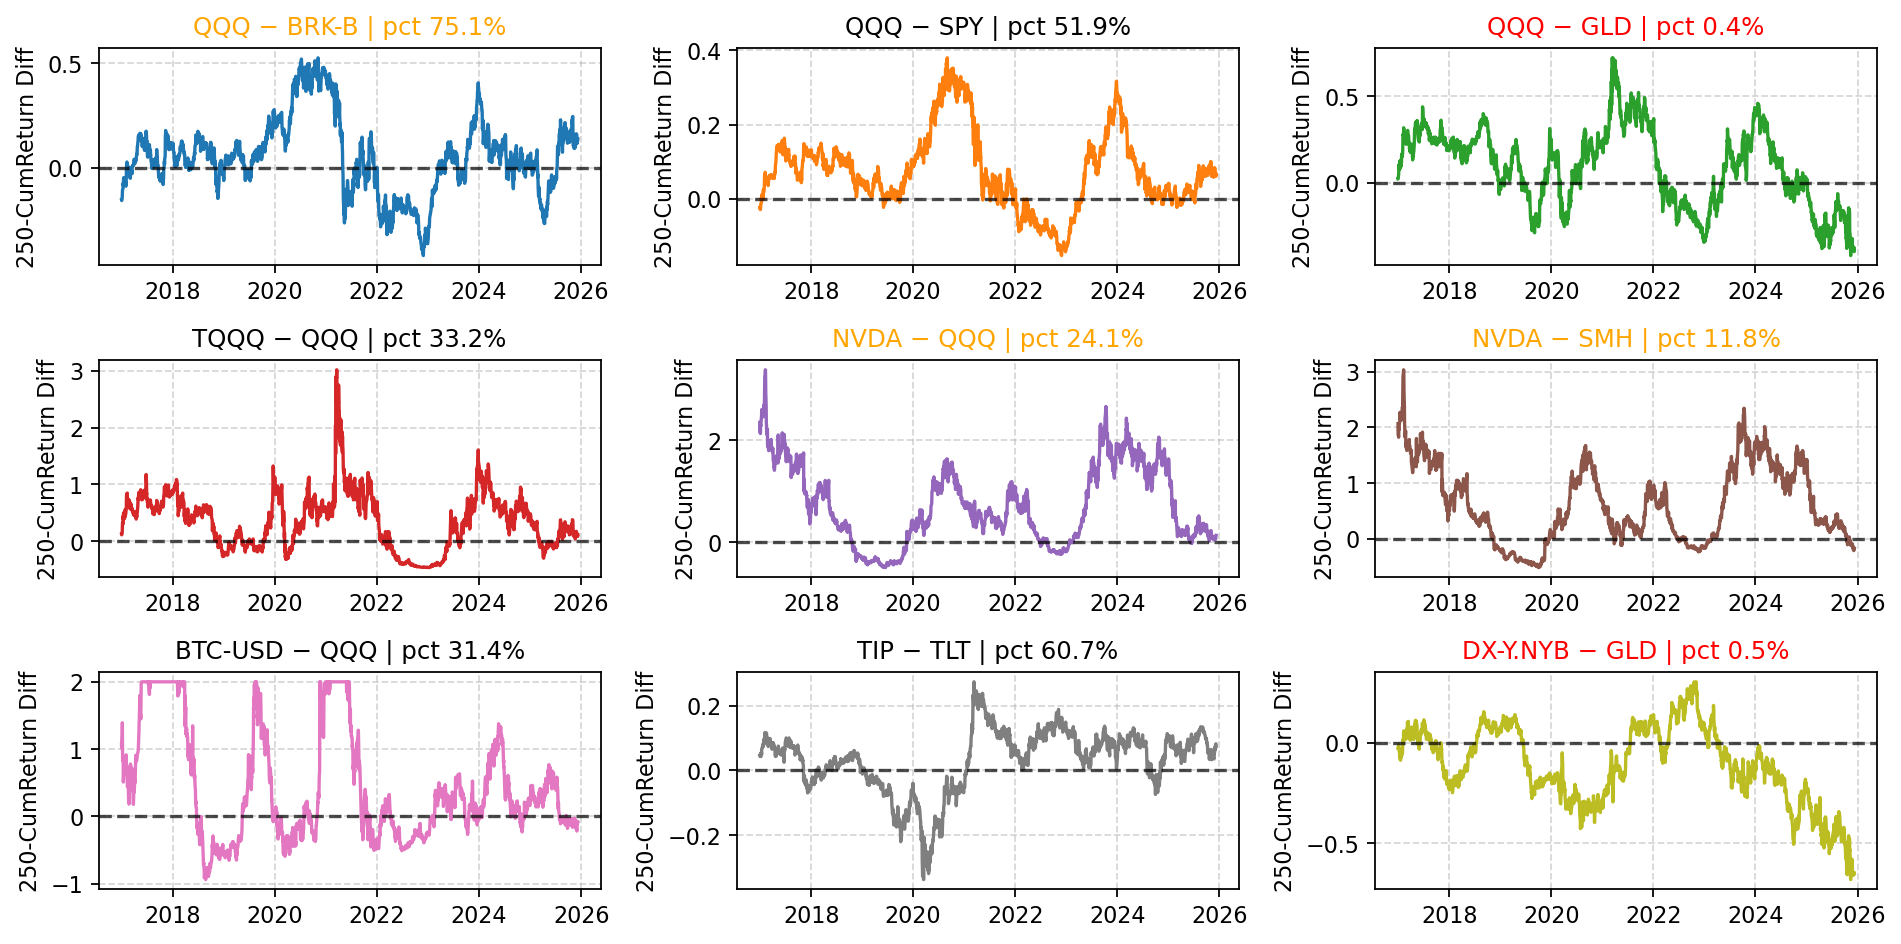
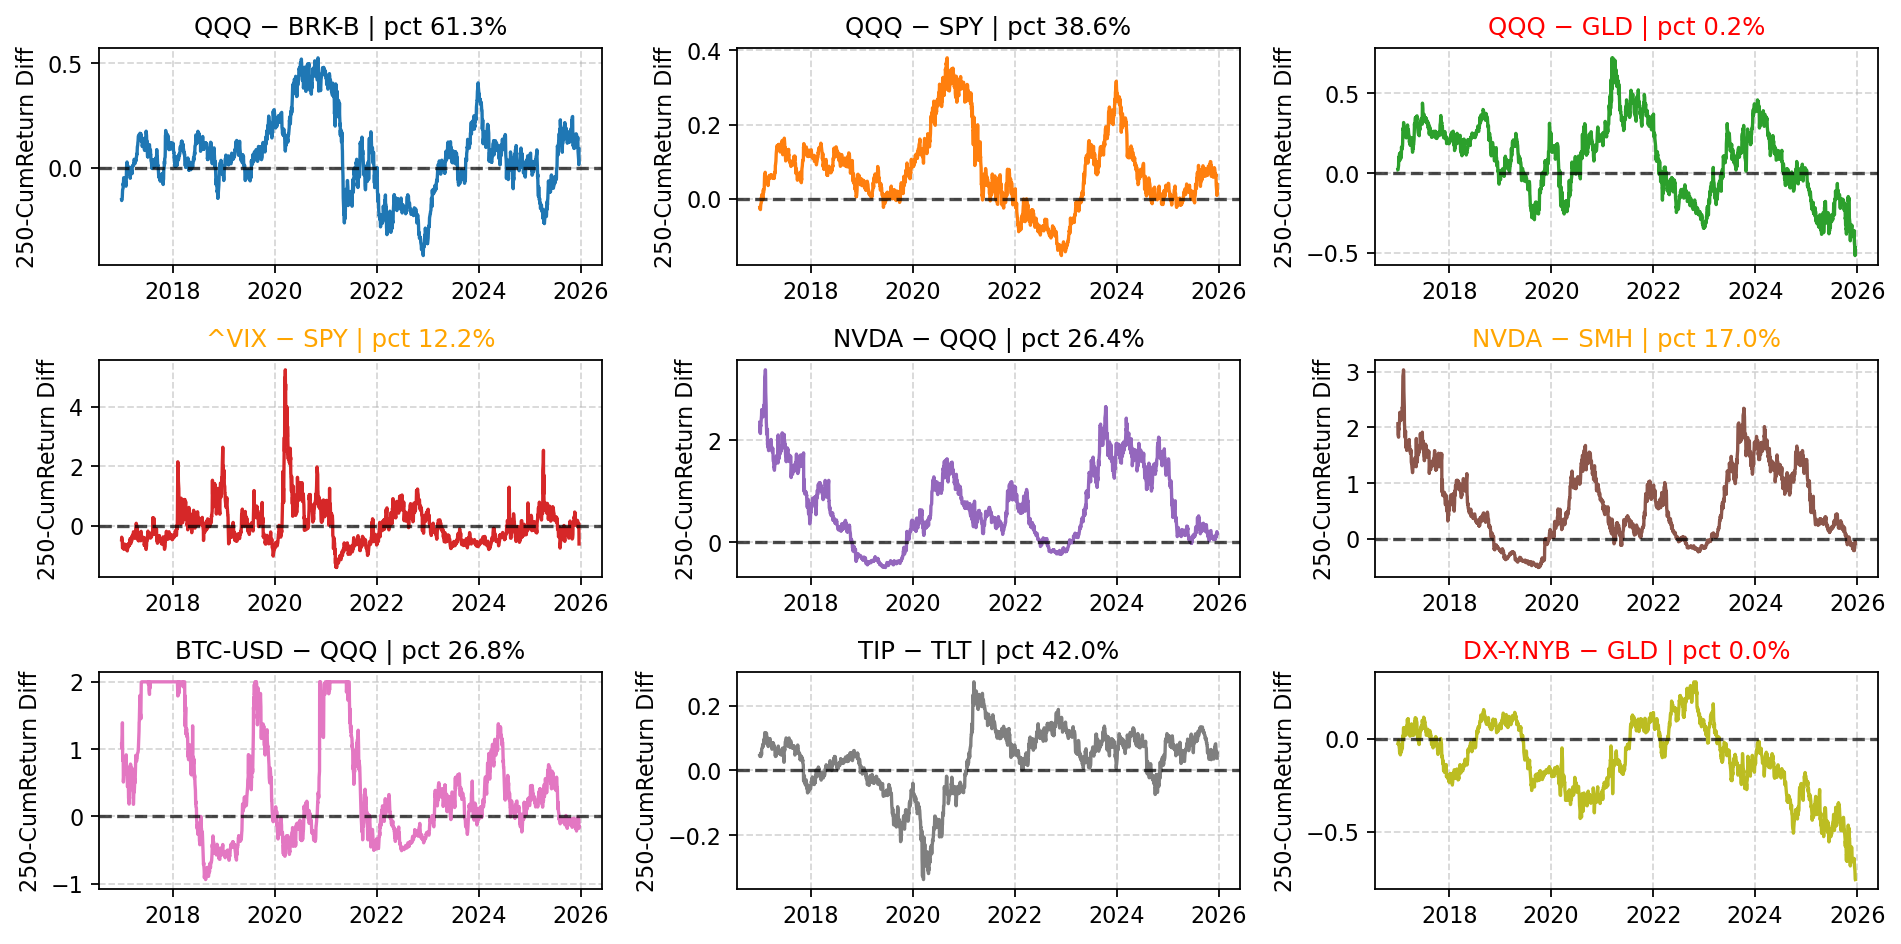
.

diff --git a/docs/index.html b/docs/index.html
@@ -12,7 +12,7 @@
 </head>
 <body>
   <h1>Rolling Pair Diffs (250-day)</h1>
-  <div class="meta">Last updated: 2025-12-10 04:38 UTC</div>
+  <div class="meta">Last updated: 2025-12-19 20:11 UTC</div>
   <p><img src="rolling_pairs.png" alt="rolling pairs figure"></p>
   <div class="note">
     Data via <code>yfinance</code>. Figure regenerates daily via GitHub Actions.

diff --git a/auto_macro_pair_monitor.py b/auto_macro_pair_monitor.py
@@ -23,7 +23,8 @@ PAIRS = [
     ('QQQ', 'BRK-B'),     # growth vs quality value
     ('QQQ', 'SPY'),       # growth vs value
     ('QQQ', 'GLD'),       # risk-on vs safe-haven
-    ('TQQQ', 'QQQ'),      # risk-on vs safe-haven (leveraged growth sentiment)
+    #('TQQQ', 'QQQ'),      # risk-on vs safe-haven (leveraged growth sentiment)
+    ('^VIX', 'SPY'),
     ('NVDA', 'QQQ'),      # AI & innovation v.s. broad market
     ('NVDA', 'SMH'),       # nvidia v.s. semiconductors
     #('USO', 'TLT'),       # real-economy vs bonds
